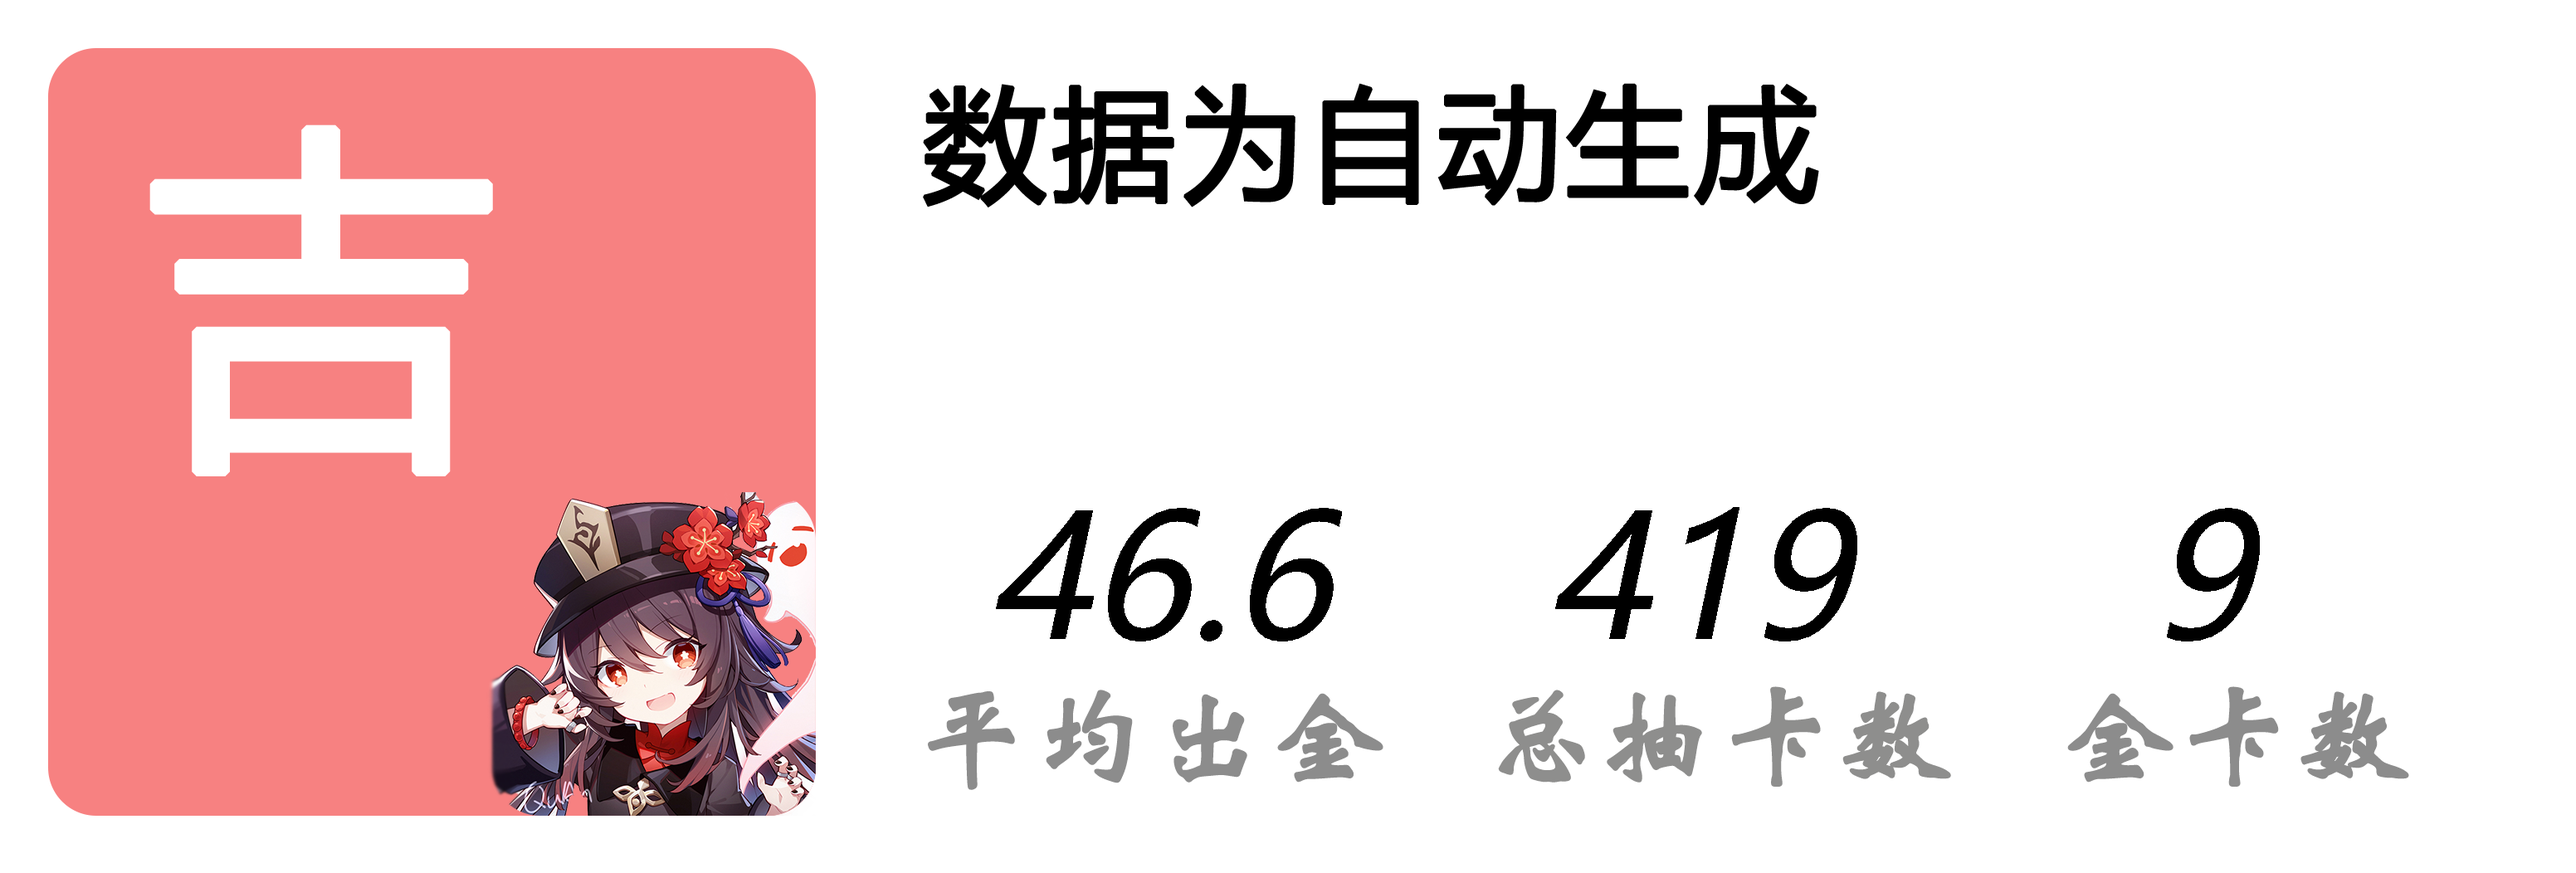
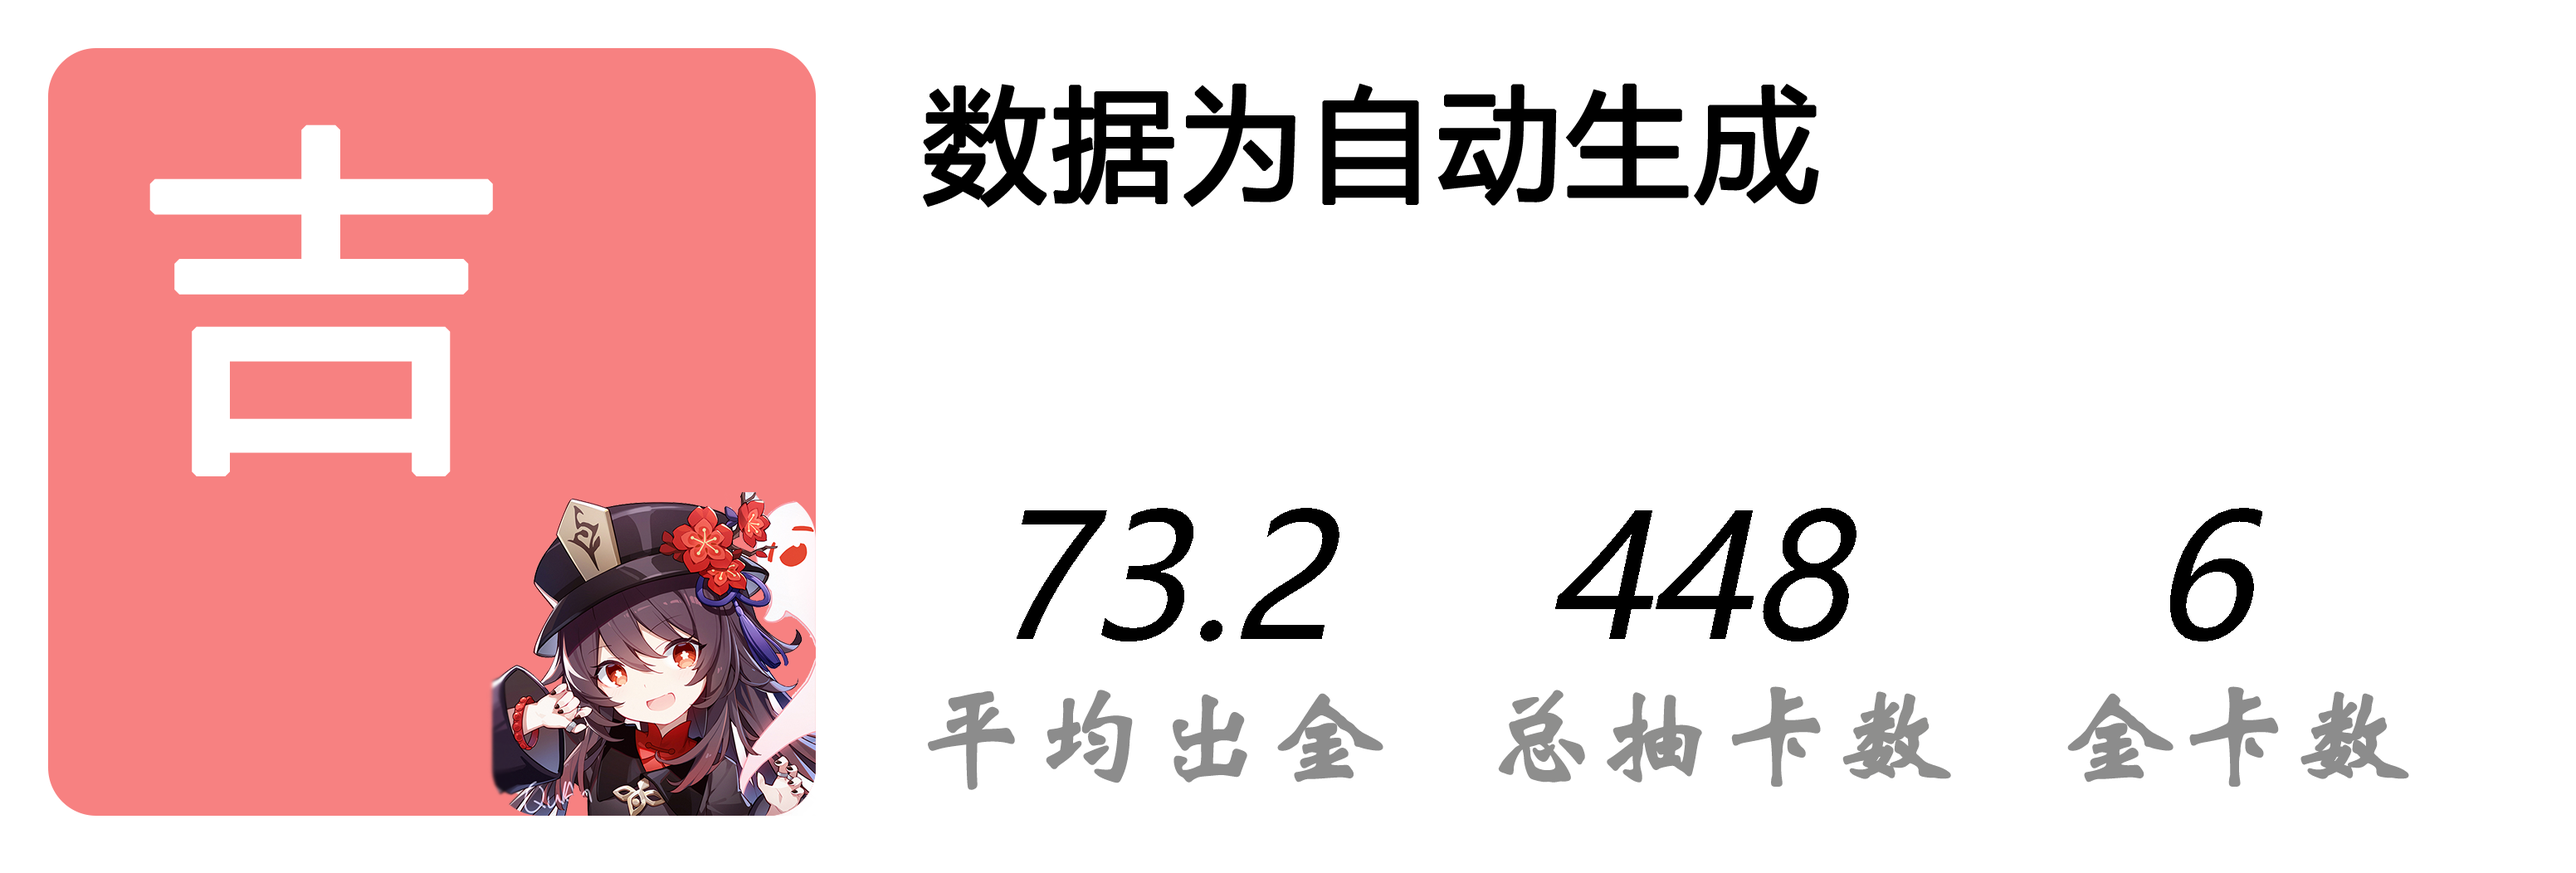
对原神连接进行重构，增加常驻池和武器池的连接

Changed region(s): [[0.375, 0.5779, 0.5312, 0.73], [0.625, 0.5779, 0.7188, 0.73], [0.8438, 0.5779, 0.875, 0.73]]

diff --git a/src/main/java/love/simbot/example/BootAPIUse/YuanShenAPI/picture.java b/src/main/java/love/simbot/example/BootAPIUse/YuanShenAPI/picture.java
@@ -13,6 +13,8 @@ import java.io.IOException;
 import java.io.InputStream;
 import java.util.ArrayList;
 import java.util.Iterator;
+import java.util.regex.Matcher;
+import java.util.regex.Pattern;
 
 /**
  * @author zeng
@@ -202,7 +204,7 @@ public class picture {
                 picArray[picTimes] = diLuKe;
             } else {
                 //读取图片10
-                BufferedImage diLuKe = ImageIO.read(new File(file + "\\src\\main\\resources\\yuanImage\\角色图片\\default1.png"));
+                BufferedImage diLuKe = ImageIO.read(new File(file + "\\src\\main\\resources\\yuanImage\\default1.png"));
                 picArray[picTimes] = diLuKe;
             }
             picTimes++;
@@ -399,6 +401,36 @@ public class picture {
         }
     }
 
+    /**
+     * 对关键参数进行拼接
+     *
+     * @param key
+     * @param url   未拼接的链接
+     * @param times
+     * @param endId 结束图片的id
+     * @return
+     */
+    public static String getUrl(String key, int times) {
+
+
+        ArrayList<String> gachaTypeList = new ArrayList<>();
+        gachaTypeList.add("200");
+        gachaTypeList.add("301");
+        gachaTypeList.add("302");
+
+        String urls = "https://hk4e-api.mihoyo.com/event/gacha_info/api/getGachaLog?authkey_ver=1&sign_type=2&auth_appid=webview_gacha&init_type=301&gacha_id=d7d9d26fd678245ee04bec46b4bab7a8f5359c90&timestamp=1657669968&lang=zh-cn&device_type=pc&ext=%7b%22loc%22%3a%7b%22x%22%3a-3771.129638671875%2c%22y%22%3a250.9356231689453%2c%22z%22%3a-2365.77490234375%7d%2c%22platform%22%3a%22WinST%22%7d&game_version=CNRELWin2.8.0_R9182063_S9401797_D9464149&plat_type=pc&region=cn_gf01&authkey=6NQAMEZnyHZ%2bquGwCGVuf7qWCbVt4TmJFNZOZ9RMxfirpEOBaWEs%2fT44oYQuEqC4urJYtDv64aMZUm7Pd7%2f0XpgH5UCeyXV9tKFkUvIYLj8z%2bnstf%2fBZWoyaH%2fLMQTedVStVKtIuMQzPNLCs%2fW4MhsfM7q%2bkYYNtnvxbLKZ8PUJHQpYl6I%2faEc87p252KQLeNtdPcpwohMnIn6e92dnIOcflc%2bLGmSf3fpgrRhwGvqltRIi7JjdFDEp7yd9tA8ivyUTEnvYEyefxyzxmPv8vKyc69hbjBLxFeNOibO7xV27QNxjojpQ%2bBAVTq3GzQGxyNPjbwDeo4G22ODP5AW3%2bIHNaHAQXxhBk66nEGBL9A9onfghjgCf5mcRVZ%2fP5%2bo4yoM%2b4yd8NNwOfJc58Gj%2fvRAE4c6fEekNs0wLwp54Kj9HiZecSNnhCPrTac0Zi4Bkus98x%2fh83vgMjAfAGki1SYsDN18%2b6pGN05n8h9oMYKad%2fJqxnBOT0rgN2aLtl6%2bUWuJWBnjUr6IXZAqx0IiRnClefmMPIxMYRLl08lYTYFOYuP3I9aLMvDInIGddp4GzTuk31WIcCvJFr62kYz47OOR1VIAfu4iXSUoHhrogXzs5eudso1JAnHlhsVzy1437GFcFcI1pB5%2f4XxAn8FhOLbiX12iNzetG14ms0CY51Gv%2bZEfJR3RGGh0tib4WhGPRsfXs2%2bsPReMQ9Qd0X2jw0OZCj%2bVfZja%2fr1QYS9D%2bzXJTV5nAUyQBAAZCX%2bMNf81hPjNf5X5s3J785tXO%2fK%2fr%2f1HE%2bfNQr2DvpyLbbFXVSMUOIPn%2fh%2fhB42HeTpXaXobsLpOtUNASqBYdT%2bbF2JG2aRcU5kOdYV8WjPGb2YBc0wJDHzr1w4nej990ZdAhWUecOaZn0re%2fRol8TbSjlnam10ZpHLkXVlcUu9aE8TBYdViqbau1ACIrIJR1aExDW2D1UxdhmR2YqGd1OrT6EyhOFbzXl%2btpSh670ahgXgPnn4KBghGmnjzqfZyaBibdeFKK11nL8G6wpcrNNUOQTTyTS2LY4YqX9ujmM13XUSnXT3LQ6cGaj7RJoPVjKEnlWriMeeHExTiVCTL6SC1P5wHr0jfwquRK0ncBBwkzxGVUWol0aL8fu50Ch62C4TAug3cvnbYR1aW4nMqOUdqiNkh%2bBwdv6Smb8zUs70Ux%2blmukHJnMRzeABlSxa3XHwOWNgIMu1uExd0tm8yvCRgWaHDu302brf3vfcWj89tzmnVp94nwC2OGml8%2b3ChxBxpxe76Mkm2rLFr4QPEcPgynsuSPO%2fAw%2fD3nnhyiAuEuqekYw0SxincJS1qnMu6Sp%2f%2bqxmLdKeDKRVB6dK10hA6U7myo5jg%3d%3d&game_biz=hk4e_cn" + "&gacha_type=301&page=1&size=20&end_id=0";
+        // 通过正则获取关键字
+        Pattern pattern2 = Pattern.compile("([\\s\\S]*)" + "gacha_type" + "=([^&]*)" + "([\\s\\S]*)" + key + "=([^&]*)" + "([\\s\\S]*)");
+        Matcher matcher2 = pattern2.matcher(urls);
+        if (matcher2.find()) {
+            for (String gachaType : gachaTypeList) {
+                System.out.println(matcher2.group(1) + "gacha_type=" + gachaType + matcher2.group(3) + key + "=" + times + matcher2.group(5));
+            }
+            // 返回拼接后的api链接
+
+        }
+        return null;
+    }
 
     public static void main(String[] args) throws Exception {
         // cutImage("C:\\Users\\86188\\Desktop\\simbot-mirai-demo1\\src\\main\\resources\\yuanImage\\sec.jpg","C:\\Users\\86188\\Desktop\\simbot-mirai-demo1\\src\\main\\resources\\yuanImage\\sec.jpg",0,0,1151,1000);
@@ -409,7 +441,7 @@ public class picture {
 //
 //
 //        mergeImage2(files, 2, "C:\\Users\\86188\\Desktop\\simbot-mirai-demo1\\src\\main\\resources\\yuanImage\\sec3.jpg");
-
+        getUrl("page", 1);
     }
 
 }

diff --git a/src/main/java/love/simbot/example/BootAPIUse/YuanShenAPI/yuanAPI.java b/src/main/java/love/simbot/example/BootAPIUse/YuanShenAPI/yuanAPI.java
@@ -38,8 +38,33 @@ public class yuanAPI {
         return "https://hk4e-api.mihoyo.com/event/gacha_info/api/getGachaLog?" + splitUrl2;
     }
 
+    public static void params() {
+        // 常驻200 角色301 武器302
 
+        String page;
+        String size;
+        String end_id;
+
+
+    }
+
+    /**
+     * 对关键参数进行拼接
+     *
+     * @param key
+     * @param url   未拼接的链接
+     * @param times
+     * @param endId 结束图片的id
+     * @return
+     */
     public static String getUrl(String key, String url, int times, String endId) {
+        ArrayList<String> gachaTypeList = new ArrayList<>();
+        gachaTypeList.add("200");
+        gachaTypeList.add("301");
+        gachaTypeList.add("302");
+        for (String gachaType : gachaTypeList) {
+
+        }
         String urls = toUrl(url) + "&gacha_type=301&page=1&size=20&end_id=0";
         // 通过正则获取关键字
         Pattern pattern2 = Pattern.compile("([\\s\\S]*)" + key + "=([^&]*)" + "([\\s\\S]*)" + "end_id=");
@@ -219,7 +244,7 @@ public class yuanAPI {
 
         // 记录：以(90-平均出金数)*50%+(不歪的几率*50%)
 
-        float averageFive = (float) all / five;
+        float averageFive = (float) (all - alreadyCost) / five;
         String averageFiveString = String.format("%.1f", averageFive);
         float averageFiveCost = (float) (all / five) * 160;
         String averageFiveCostString = String.format("%.1f", averageFiveCost);
